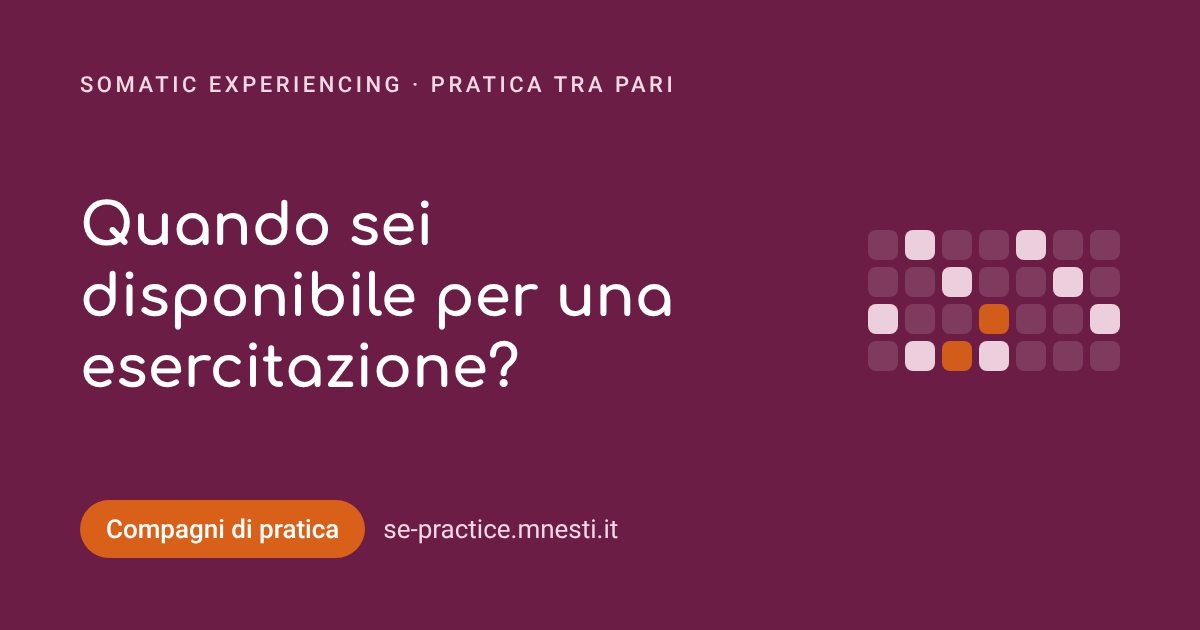
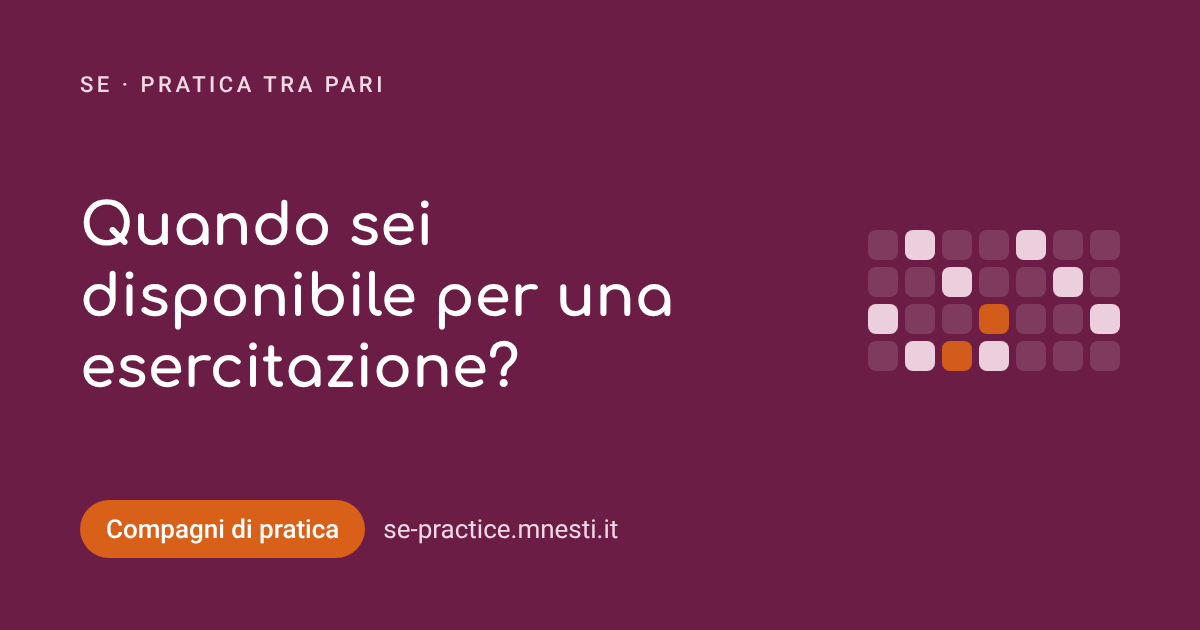
Solo la sigla SE nei testi
Claude-Session: https://claude.ai/code/session_01Hz94v6RC9nHH71adU6CVrp

Changed region(s): [[0.0617, 0.1206, 0.555, 0.1508]]

diff --git a/index.html b/index.html
@@ -3,7 +3,7 @@
 <head>
 <meta charset="utf-8">
 <meta name="viewport" content="width=device-width, initial-scale=1">
-<title>Compagni di pratica · Somatic Experiencing</title>
+<title>Compagni di pratica · SE</title>
 <meta name="description" content="Quando sei disponibile per una esercitazione? Trova i compagni di corso SE liberi negli stessi giorni e proponi una sessione di pratica.">
 <meta name="theme-color" content="#6C1D45">
 <link rel="canonical" href="https://se-practice.mnesti.it/">
@@ -18,7 +18,7 @@
 <meta property="og:image" content="https://se-practice.mnesti.it/og-image.png">
 <meta property="og:image:width" content="1200">
 <meta property="og:image:height" content="630">
-<meta property="og:image:alt" content="Quando sei disponibile per una esercitazione? · Compagni di pratica · Somatic Experiencing">
+<meta property="og:image:alt" content="Quando sei disponibile per una esercitazione? · Compagni di pratica SE">
 <meta name="twitter:card" content="summary_large_image">
 <meta name="twitter:title" content="Quando sei disponibile per una esercitazione?">
 <meta name="twitter:description" content="Compagni di pratica SE: guarda chi è libero negli stessi giorni e proponi una sessione.">
@@ -27,7 +27,7 @@
 <link href="https://fonts.googleapis.com/css2?family=Comfortaa:wght@500;600;700&family=Roboto:wght@400;500;700&display=swap" rel="stylesheet">
 <style>
   :root {
-    /* Palette from Somatic Experiencing International (traumahealing.org) */
+    /* Palette inspired by traumahealing.org */
     --bg: #F7F3F5; --surface: #FFFFFF; --surface-2: #F1EAEE; --surface-3: #E8DDE3;
     --ink: #3D3D3D; --muted: #6E686B; --faint: #AAAAAA;
     --border: #E5DCE1; --border-soft: #EFE8EC;
@@ -273,7 +273,7 @@
 /* ---------- Texts ---------- */
 const STR = {
   it: {
-    eyebrow: 'Somatic Experiencing · pratica tra pari',
+    eyebrow: 'SE · pratica tra pari',
     title: 'Compagni di pratica',
     lead: 'Guarda chi è disponibile e quando, poi proponi una sessione di pratica. I dettagli li concordi con il compagno su WhatsApp.',
     iAm: 'Io sono', chooseName: 'Scegli il tuo nome…', choose: 'Scegli…',
@@ -328,7 +328,7 @@ const STR = {
     locale: 'it-IT',
   },
   en: {
-    eyebrow: 'Somatic Experiencing · peer practice',
+    eyebrow: 'SE · peer practice',
     title: 'Practice partners',
     lead: 'See who is available and when, then propose a practice session. Confirm details with your partner on WhatsApp.',
     iAm: 'I am', chooseName: 'Choose your name…', choose: 'Choose…',

diff --git a/README.md b/README.md
@@ -1,6 +1,6 @@
 # SE Practice Planning
 
-App per i compagni di corso di Somatic Experiencing: mostra le disponibilità raccolte con un Google Form
+App per i compagni di corso SE: mostra le disponibilità raccolte con un Google Form
 e permette di proporre, confermare e annullare sessioni di pratica, con avvisi via email e WhatsApp.
 Interfaccia in italiano e inglese.
 
